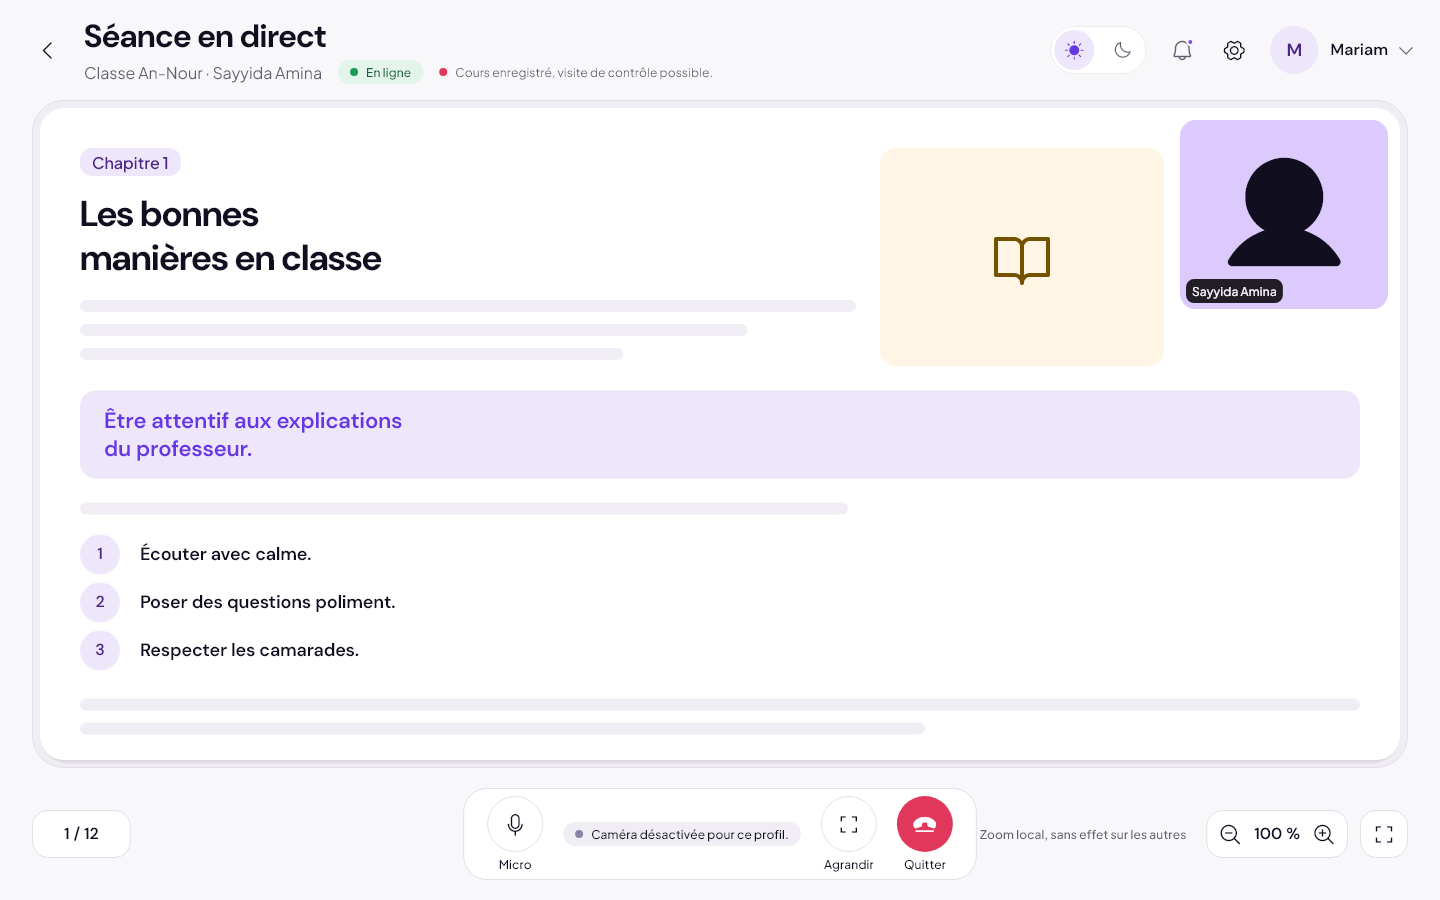
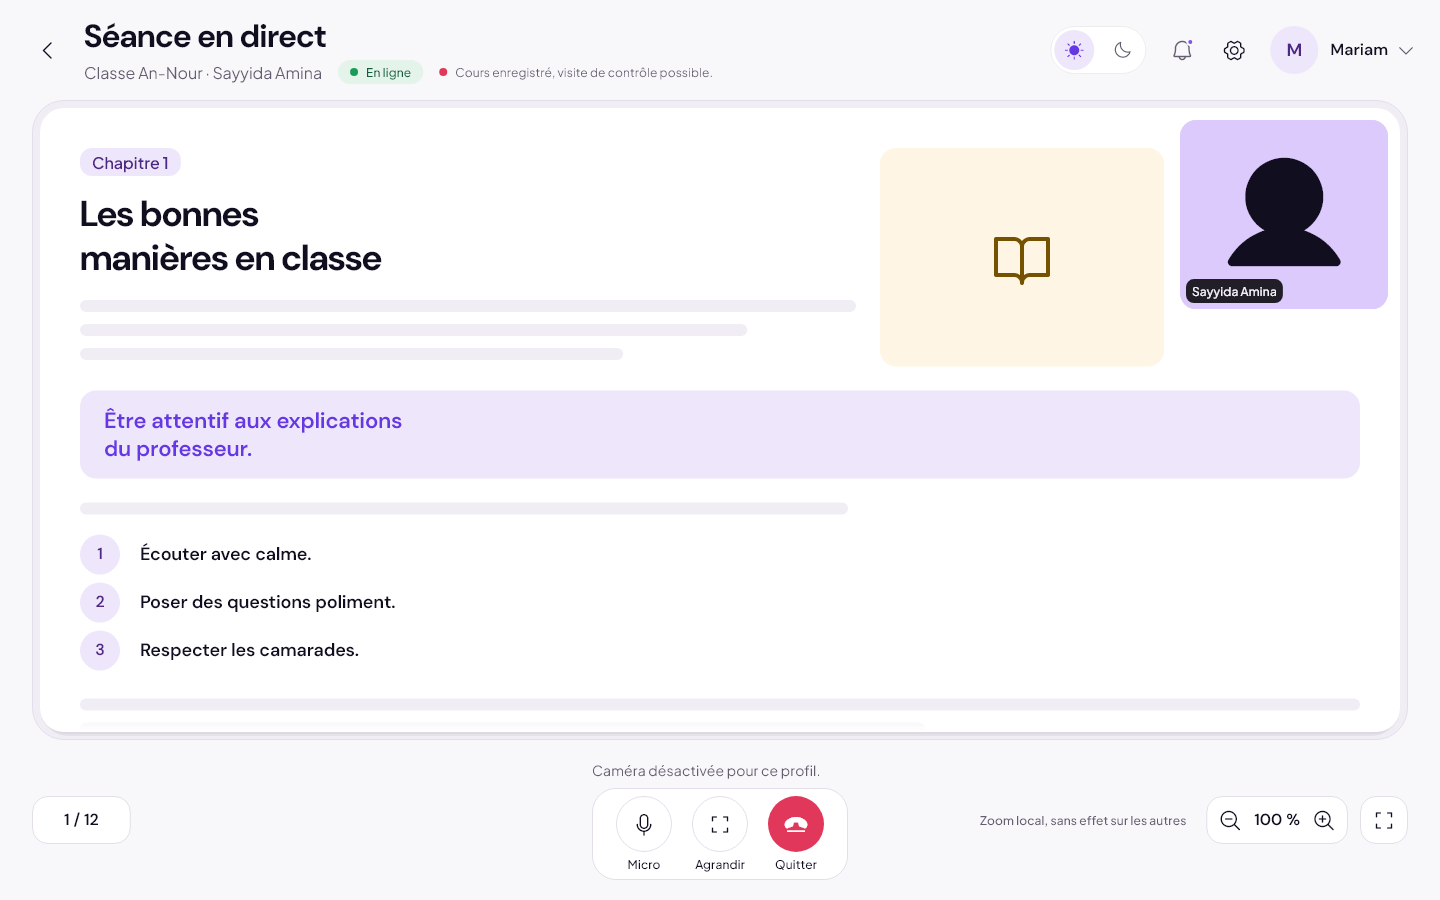
CL-7 T-S6 : recette des écrans de secours, rapport directeur, captures TS5 mises à jour et TS6

diff --git a/10_classe/UX_REVIEW_CL-7.md b/10_classe/UX_REVIEW_CL-7.md
@@ -10,14 +10,14 @@ Référentiels exclus : GOV.UK Design System (décision du directeur, §4.1). La
 |---|---|---|
 | W1 | WCAG 2.2, critère 4.1.3 « Status Messages » (w3.org/WAI/WCAG22/Understanding/status-messages) : « Status messages can be programmatically determined … without receiving focus. » | lue en ligne le 26/09/2026 |
 | W2 | WCAG 2.2 : 1.4.1 Utilisation de la couleur, 2.4.3 Parcours du focus, 2.4.11 Focus non masqué (minimum), 2.5.8 Taille de cible (minimum), 3.2.2 Changement au moment de la saisie, 3.3.1 Identification des erreurs | texte normatif connu ; non rechargé dans cette session |
-| M3 | Material Design 3 : bannières (message persistant tant que la condition dure), snackbars (bref, non critique), bottom sheets, dialogues | page m3.material.io injoignable par l'outil le 26/09/2026 (« socket hang up ») ; règles connues, à relire en recette T-S6 |
-| AH | Apple HIG, Privacy (demander l'accès au moment où il sert ; en cas de refus, expliquer et orienter vers Réglages sans insister) | page non lisible par l'outil le 26/09/2026 ; règle connue, à relire en recette T-S6 |
+| M3 | Material Design 3 : bannières (message persistant tant que la condition dure), snackbars (bref, non critique), bottom sheets, dialogues | relue en recette T-S6 le 26/09/2026 : page M3 Snackbar lue (bref, disparaît seul, bas de l'écran) ; la page M3 « banners » répond 404 : M3 n'a plus de composant bannière, la règle « persiste tant que la condition dure, non modale, en haut sous la barre » vient de Material 2 (m2.material.io/components/banners, trouvée par recherche). Conclusions U1, U2, U4 inchangées. |
+| AH | Apple HIG, Privacy (demander l'accès au moment où il sert ; en cas de refus, expliquer et orienter vers Réglages sans insister) | relue en recette T-S6 le 26/09/2026 par recherche web (HIG Privacy / « Accessing private data » ; la page elle-même ne se charge pas dans l'outil) : demander au moment où la fonction sert, texte précis et poli sans pression, après un refus on peut orienter vers Réglages. Conclusion U5 inchangée. |
 | FL | Flutter, « Adaptive and responsive design » et « Accessibility » (`Semantics.liveRegion`, focus, `SemanticsService.announce`) | règles connues ; non rechargé |
 | EN | EN 301 549 V3.2.1 (2021-03), chapitre 9 = WCAG 2.1 AA ; aucune « version 2026 » supposée | édition connue ; portée : web et application |
 | NI | Nielsen, heuristiques 1 (visibilité de l'état), 3 (contrôle et liberté), 5 (prévention des erreurs), 9 (diagnostiquer et récupérer) | référence stable |
 | LO | Fitts (cible 48 / 72 dp), Hick (deux choix au plus en secours), proximité Gestalt (§4 bis.1 : objet → CTA 16 dp) | référence stable |
 
-Réserve honnête : seules W1 a été relue en ligne pendant cette session (délai < 35 min, deux sites injoignables par l'outil). La recette T-S6 relit M3 et AH et met à jour la colonne « Consultation » ; si une règle diffère, la ligne concernée passe à « ajustée ».
+Réserve honnête (mise à jour T-S6) : W1 relue en ligne au cadrage ; M3 et AH relues en recette T-S6 (colonne « Consultation ») ; W2, FL, EN non rechargées (texte normatif stable). Aucune conclusion ne change.
 
 ## 1. Propositions contrôlées
 
@@ -28,10 +28,10 @@ Réserve honnête : seules W1 a été relue en ligne pendant cette session (dél
 | U3 | Reconnexion impossible, hors ligne confirmé (P05.8) | `EtatSysteme(portee: bloc)` à la place du bandeau, entre en-tête et support ; action `Réessayer` au bord trailing, `Quitter la séance` au leading ; la salle reste montée. | NI-3, NI-9 ; Hick : deux choix ; §4 bis.2 : poursuite trailing, sortie leading, 16 dp sous l'objet ; W2 3.3.1. | ajustée | Pas d'écran plein ni de dialogue : la spec dit « Page de salle conservée ». `Quitter la séance` repasse par la confirmation existante (`Quitter la séance ?` / cahier pour l'enseignant) : aucune sortie sans confirmation (NI-5). |
 | U4 | Réseau faible (P06) | Même bandeau que U1, ton avertissement, pastille « En ligne » inchangée ; commandes actives. | W2 1.4.1 : texte + icône, jamais la couleur seule ; spec P06.5 : aucun faux « hors ligne ». | conforme | La pastille d'état n'est pas remplacée par « Hors ligne » tant que la room est connectée. |
 | U5 | Micro bloqué (P09) | Feuille `AppBottomSheet` (feuille du bas < 600, dialogue centré au-delà) ouverte **au geste Micro** ; texte + `Continuer sans micro` (secondaire, leading) + `Ouvrir les réglages` (principal, trailing) **seulement si la plateforme le permet**. Fermeture → focus rendu au bouton Micro. | AH : demande contextuelle, orientation vers Réglages ; W2 2.4.3 (retour du focus) ; M3 : feuille modale pour une décision courte ; §4 bis.2 : un seul CTA dominant. | ajustée | Sans paquet de permission (pubspec interdit, `permission_handler` non retenu C05 §6), `onOuvrirReglages` reste `null` → bouton non rendu ; `Continuer sans micro` devient la seule action. Le bouton Micro reste « coupé » : aucun état « micro actif » simulé (P09.6). |
-| U6 | Caméra interdite (P10) | Élève standard : pas de bouton Caméra (déjà fait) ; `StatusPill` ton neutre, non interactive, « Caméra désactivée pour ce profil. » posée dans la barre basse (à la place du bouton, 768/1440) ou au-dessus du dock, alignée start, 8 dp (390). Guidée : rien. | Spec P10.3 « statut non interactif … pas dans le contenu principal » ; W2 : pas de contrôle factice ; Nielsen 1. | ajustée (Q-S1) | La spec parle de « détails média », que ni la matrice ni les maquettes du directeur ne montrent : la barre basse est retenue comme zone média. Choix soumis au directeur (Q-S1 dans `07_SECOURS.md`). |
+| U6 | Caméra interdite (P10) | Élève standard : pas de bouton Caméra (déjà fait) ; `StatusPill` ton neutre, non interactive, « Caméra désactivée pour ce profil. » posée dans la barre basse (à la place du bouton, 768/1440) ou au-dessus du dock, alignée start, 8 dp (390). Guidée : rien. | Spec P10.3 « statut non interactif … pas dans le contenu principal » ; W2 : pas de contrôle factice ; Nielsen 1. | ajustée (Q-S1), corrigée T-S6 | **T-S6** : la `StatusPill` (prévue pour 2 mots) passait sur deux lignes à 768 ; le statut devient un **texte d'état discret** (encre atténuée, comme « La séance se poursuit. ») au-dessus du dock, aligné start, 8 dp, **à toutes les tailles** ; tient sur une ligne à 390/768/1440, reflue à 320 et à 200 %. La spec parle de « détails média », que ni la matrice ni les maquettes du directeur ne montrent : la barre basse est retenue comme zone média. Choix soumis au directeur (Q-S1 dans `07_SECOURS.md`). |
 | U7 | Séance prolongée (P11) | Texte simple dans la ligne d'état (déjà fait pour ES et EN), jamais bandeau vert ; guidée : rien (matrice). Minuteur jamais négatif. | Matrice + DV D4 ; NI-1 ; minimalisme. | conforme | Aucun changement visuel ; ajout de situations démo et d'un test « minutes ≥ 0 ». |
 | U8 | Salle terminée (P12) | `ResultatSeance` (élève, guidée) et `FinSeanceEnseignant` existants ; focus initial sur le titre. | NI-1 ; W2 2.4.3 ; §4 bis.2 : résultat, 16 dp, CTA trailing. | conforme (existant) | Aucun changement ; écart d'anatomie éventuel consigné pour HU-1, pas corrigé ici (§4 bis.8). |
-| U9 | Accès retiré (P12) | Nouvelle issue de `ResultatSeance` (`accesRetire`) : titre « Votre accès à cette séance a pris fin. », CTA `Retour à la Classe` ; guidée : écran de fin guidé existant. Aucune tentative de reconnexion. | NI-9 ; spec P12.5 ; W2 3.3.1. | conforme | Pas de nouveau composant : une valeur d'énumération de plus et ses textes. |
+| U9 | Accès retiré (P12) | Nouvelle issue de `ResultatSeance` (`accesRetire`) : titre « Votre accès à cette séance a pris fin. », CTA `Retour à la Classe` ; guidée : écran de fin guidé existant. Aucune tentative de reconnexion. | NI-9 ; spec P12.5 ; W2 3.3.1, 2.4.3. | conforme (T-S6) | Pas de nouveau composant : une valeur d'énumération de plus et ses textes. T-S6 : focus clavier explicite posé sur `Retour à la Classe` à l'ouverture (extension additive `ActionPrincipale.autofocus` / `EcranResultat.focusAction`) ; le titre reste l'en-tête lu en premier. |
 | U10 | Mobile 390 / tablette 768 / desktop 1440 | Bandeaux pleine largeur de la colonne salle, gouttière 16 / 16 / 32 (valeurs du gabarit existant) ; bloc U3 borné par `EtatSysteme` ; feuille U5 = feuille du bas < 600, dialogue ≥ 600. | Contrat D : pas d'étirement mécanique, largeur bornée par le composant ; FL adaptive. | conforme | Aucune largeur ad hoc. Zoom 200 % : bandeau sur plusieurs lignes, jamais tronqué (W2 1.4.4 / 1.4.10). |
 | U11 | Mouvement | Apparition/disparition des bandeaux avec `AppMouvement.apparition` (180 ms) et courbes existantes ; réduction de mouvement = 0. | Contrat E. | conforme | Aucune durée locale. |
 
@@ -42,3 +42,22 @@ Aucune dérogation aux contrats A à E. Une tension documentée : la règle de `
 ## 3. Limites (§4.3)
 
 Rien ici ne change une permission, un état serveur ni la présence : détection réelle de la qualité, échec durable, révocation, permission OS et publication vidéo restent côté serveur et SDK (BR-1).
+
+## 4. Recette T-S6 (26/09/2026)
+
+| # | Coché | Preuve |
+|---|---|---|
+| U1 | oui | T-S2 : bandeau `liveRegion`, commandes désactivées ; captures `TS2/cl7_0{4,5,6}_reconnexion_*` |
+| U2 | oui | T-S2 : `LocalFeedback` ; démo : Réessayer (échec) → « Connexion rétablie. » (`demo_salle_page_test`) |
+| U3 | oui | T-S3 : bloc `EtatSysteme`, Réessayer trailing, Quitter leading avec confirmation |
+| U4 | oui | T-S2 : pastille « En ligne » conservée en réseau faible |
+| U5 | oui | T-S4 : feuille / dialogue, focus rendu au bouton Micro, Ouvrir les réglages non rendu (BR-1) |
+| U6 | oui (corrigé) | texte d'état discret une ligne ; `TS5/cl7_04_camera_interdite_*` recapturées ; tests 390/768/1440 à 200 %, 320 à 100 % et 200 % |
+| U7 | oui | T-S5 : « La séance se poursuit. », jamais négatif |
+| U8 | oui | existant |
+| U9 | oui (corrigé) | focus clavier sur l'action à l'ouverture, Entrée sort (tests aux 3 tailles) |
+| U10 | oui | `/demo/salle` : liste sans débordement à 320 (100 %) et 390/768/1440 (200 %) ; libellés des liens repliables |
+| U11 | oui | durées `AppMouvement` seulement (`verifier_jetons` : aucun écart dans les fichiers du lot) |
+
+Clavier : Tab atteint les liens de `/demo/salle`, le lien focalisé reste dans la vue (focus jamais masqué, W2 2.4.11), Entrée l'ouvre.
+Écarts consignés pour HU-1 (hors lot) : `verifier_jetons` signale deux écarts antérieurs hors CL-7 (`repere_demonstration.dart:37` graisse, `scanner_page.dart:467` page sans coquille).

diff --git a/05_recette/CL/RAPPORT.md b/05_recette/CL/RAPPORT.md
@@ -48,7 +48,7 @@ Vous n'aviez pas encore répondu à 8 petites questions de détail. Pour ne pas 
 ## Ce qui n'est pas encore fait
 
 - **CL-4 (les écrans d'entrée)** : « Espace Classe » élève, « Espace Classe » enseignant, préparation technique avant d'entrer. Ces 3 écrans n'ont pas de maquette du directeur : quelqu'un doit d'abord les dessiner (ou vous les valider directement en code) avant de les coder.
-- **CL-7 (les écrans de secours)** : reconnexion, réseau faible, micro refusé, caméra interdite, séance prolongée, séance terminée ou accès retiré. Là aussi, pas encore de maquette.
+- ~~CL-7 (les écrans de secours)~~ : **fait le 26/09** avec votre feu vert sans maquette, voir la section « Écrans de secours (CL-7) » plus bas.
 - Ces deux points étaient prévus pour le poste A ; comme il est éteint depuis le 25/09, ils attendent soit une reprise par le poste B, soit votre feu vert pour les dessiner sans maquette (méthode habituelle : gabarits déjà utilisés ailleurs).
 - **BR-1 (branchement du serveur, tout en une fois, plus tard)** : le vrai support de cours partagé, les outils d'enseignement qui agissent réellement, la vraie bibliothèque de supports, les permissions micro/caméra du téléphone, la fusion technique des deux salles existantes en une seule en coulisses. Rien de tout cela n'est visible pour l'instant : les écrans sont prêts à les recevoir dès que vous donnez le feu vert pour BR-1.
 - Une question mineure laissée à votre avis : quand un enfant en interface guidée quitte la séance avant la fin, il voit aujourd'hui « La séance est terminée. » alors qu'elle continue pour les autres. Une phrase plus juste serait « Tu as quitté la séance. ». Rien n'a été changé sans votre accord.
@@ -56,3 +56,35 @@ Vous n'aviez pas encore répondu à 8 petites questions de détail. Pour ne pas 
 ## Tableau de suivi (nettoyage)
 
 Le tableau partagé (page « Chantier Tuteur V1 ») a été relu et remis à jour ce soir pour qu'il reflète l'état réel du lot Classe et visio (les lignes CL-3 et CL-6, marquées comme en cours, sont en réalité terminées) et pour que l'autre poste ne s'y perde plus : voir le récapitulatif court en tête des lignes `CL-*`.
+
+## Écrans de secours (CL-7)
+
+Fait le 26/09/2026, sans maquette (votre feu vert), en réutilisant les éléments déjà présents dans l'application. Rien n'est branché au serveur : ce sont les écrans, prêts à recevoir les vrais signaux à l'étape BR-1.
+
+**Ce qui est fait**, pour l'élève, l'enfant en interface guidée et l'enseignant :
+
+- **Réseau faible** : une bande d'avertissement en haut (« Réseau faible. L'audio est prioritaire. ») ; la séance continue normalement.
+- **Reconnexion** : la bande dit « Connexion interrompue. Reconnexion en cours… » ; le cours reste affiché ; Micro et Caméra sont mis en pause le temps de la reconnexion.
+- **Connexion rétablie** : un court message « Connexion rétablie. » qui disparaît seul.
+- **Reconnexion impossible / hors ligne** : un encadré avec « Réessayer » et « Quitter la séance » (Quitter demande toujours confirmation).
+- **Micro bloqué** par le téléphone : une petite fenêtre explique que le micro est bloqué, avec « Continuer sans micro ». Le bouton « Ouvrir les réglages » viendra avec le serveur (BR-1).
+- **Caméra interdite** (élève) : pas de bouton Caméra, et une ligne discrète au-dessus des boutons du bas : « Caméra désactivée pour ce profil. » L'enfant en interface guidée ne voit ni bouton ni explication.
+- **Séance prolongée** : « La séance se poursuit. » à la place du minuteur ; aucun bouton « Prolonger ».
+- **Accès retiré** : un écran « Votre accès à cette séance a pris fin. » avec « Retour à la Classe ». Au clavier, ce bouton est déjà sélectionné à l'ouverture.
+
+**Où le voir** : ouvrez `/demo/salle`. Pour chaque rôle (Élève standard, Interface guidée, Enseignant), il y a deux groupes de boutons : « Déroulé de la séance » (l'ordinaire) puis **« Situations de secours »** (9 situations ; 8 pour l'enseignant, car il a toujours la caméra). Un clic ouvre la salle dans cette situation. Dans « Reconnexion impossible », « Réessayer » fait revenir la connexion pour que vous voyiez la suite.
+
+**Captures à regarder** (dossier `10_classe/captures/`) :
+
+- `TS6/cl7_demo_liste_390x844_light.png` : la page de démonstration rangée par rôle.
+- `TS5/cl7_04_camera_interdite_768x1024@1_light.png` : la ligne « Caméra désactivée pour ce profil. » tient maintenant sur une seule ligne (avant, elle se coupait en deux sur tablette).
+- `TS2/` : réseau faible, reconnexion, connexion rétablie (élève `cl7_04`, guidée `cl7_05`, enseignant `cl7_06`).
+- `TS3/`, `TS4/`, `TS5/` : reconnexion impossible, micro bloqué, séance prolongée, accès retiré.
+
+**Vérifié** : téléphone, tablette, ordinateur, clair et sombre ; écran très étroit (320) ; texte agrandi à 200 % ; navigation au clavier (on voit toujours où l'on est). 619 tests réussis, aucun échec. Les recommandations de Google (Material) et d'Apple ont été relues : rien à changer.
+
+**À trancher par vous** (une option par défaut est appliquée, rien n'est bloqué) :
+
+1. **Q-S1** : « Caméra désactivée pour ce profil. » reste **visible** au-dessus des boutons (choix actuel), ou bien seulement **lu à voix haute** par le lecteur d'écran, sans texte visible ?
+2. **Q-S2** : ces textes n'étaient pas dans la spec, ils ont été proposés : « Connexion rétablie. » pour l'enfant ; « Continuer sans micro » pour l'enfant ; « Impossible de rétablir la connexion. » pour l'enseignant ; et, pour le lecteur d'écran, « Indisponible pendant la reconnexion. » sur un bouton en pause. Les gardez-vous ?
+3. **Boutons de l'enfant pendant la reconnexion** : en interface guidée, les grosses pastilles de couleur « Parler » et « Caméra » deviennent **grises (sans couleur)** tant que la reconnexion dure, pour montrer qu'elles sont en pause. Cela vous convient-il, ou préférez-vous qu'elles gardent leur couleur (en restant inactives) ?

diff --git a/05_recette/CL/T-S6.md b/05_recette/CL/T-S6.md
@@ -1,0 +1,30 @@
+# T-S6 : page démo et recette des écrans de secours (lot CL-7)
+
+Date : 26/09/2026. Branche `ui/classe-v1`, commit `56541ce`. Plan : `10_classe/07_SECOURS.md` §3 T-S6. Règles gelées appliquées au lot (nouveau) ; rien renvoyé à HU-1 pour CL-7.
+
+## Corrections des écarts de T-S5
+
+- **(a) Caméra désactivée pour ce profil.** La `StatusPill` (prévue pour 2 mots) passait sur deux lignes à 768. Présentation retenue : le **texte d'état discret** déjà employé pour « La séance se poursuit. » (encre atténuée, `bodyMedium`), posé au-dessus du dock, aligné start, écart 8, **à toutes les tailles** (plus rien dans la barre). Aucun fork : `StatutCameraInterdite` compose un `Text` du thème ; `LocalFeedback` écarté (retour bref qui disparaît, `liveRegion` : inadapté à un statut permanent). Une ligne à 390 / 768 / 1440 (captures relues), reflue à 320 et à 200 %.
+- **(b) Accès retiré** : focus clavier explicite posé sur l'action principale « Retour à la Classe » à l'ouverture ; le titre reste l'en-tête lu en premier. Extension additive, sans copie : `ActionPrincipale.autofocus` (transmis à `Pressable`), `EcranResultat.focusAction`, activé par `ResultatSeance` pour `IssueSeance.accesRetire`.
+- Captures TS5 mises à jour : `TS5/cl7_04_camera_interdite_*` (6). Les captures d'accès retiré ne changent pas (l'anneau de focus n'apparaît qu'en navigation clavier).
+
+## T-S6 fait
+
+- `/demo/salle` : pour chaque rôle, deux groupes titrés « Déroulé de la séance » (6 états) puis « Situations de secours » (9 ; 8 pour l'enseignant, sans « Caméra interdite », sans objet). Titre de rôle en en-tête sémantique. Clés `salle.seance.demo.groupes.*` (fr ; ar par repli, comme les autres libellés de démo).
+- Démo sans serveur : « Réessayer » (reconnexion impossible) simule le retour de la connexion (« Connexion rétablie. ») ; « Continuer sans micro » laisse le micro coupé. « Ouvrir les réglages » reste non rendu (BR-1).
+- Libellés des liens repliables (`Flexible`) : aucun débordement à 320 ni à 200 %.
+
+## Preuves
+
+- `flutter analyze --fatal-infos` : 0 problème.
+- `dart run tool/verifier_jetons.dart` : 2 écarts **antérieurs et hors lot** (`repere_demonstration.dart:37`, `scanner_page.dart:467`), aucun dans les fichiers touchés.
+- `flutter test test/features/salle_seance/ test/features/demo/ test/core/ test/widgets/` : **619 réussis, 331 sautés (captures sans `CAPTURE_DIR`), 0 échec.**
+- `test/features/demo/demo_salle_page_test.dart` (nouveau, 34 tests + 6 captures) : 9/9/8 situations ; chaque lien de secours tapé ouvre la bonne salle (`role`, `etat` dans l'adresse, salle montée) ; liste sans débordement 320 (100 %), 390/768/1440 (200 %) ; clavier : Tab atteint un lien, il reste visible (focus jamais masqué), Entrée l'ouvre ; Réessayer → « Connexion rétablie. ».
+- `salle_secours_t_s5_test.dart` mis à jour : statut hors du dock, au-dessus, aligné sur le début du dock à 1440 ; zoom 200 % à 390/768/1440 et 320x1400 ; 320x640 à 100 % ; focus clavier sur l'action de l'accès retiré aux 3 tailles, Entrée sort.
+- Captures `10_classe/captures/TS6/` : `cl7_demo_liste_{390x844,768x1024,1440x900}_{light,dark}` (6). Relues : `cl7_demo_liste_390x844_light`, `TS5/cl7_04_camera_interdite_768x1024@1_light`, `_1440x900@1_dark`.
+- Relecture M3 / Apple HIG : faite (WebFetch + WebSearch), colonne « Consultation » de `UX_REVIEW_CL-7.md` mise à jour ; aucune conclusion ne change. Checklist U1 à U11 cochée (§4 du même fichier).
+
+## Reste / à trancher par le directeur
+
+- Q-S1 (statut caméra visible ou seulement lu), Q-S2 (textes PROPOSITION), boutons guidés inactifs sans couleur pendant la reconnexion (T-S2) : voir `RAPPORT.md`.
+- Branchement réel (détection réseau, permissions, révocation) : BR-1.

diff --git a/10_classe/00_REPRISE.md b/10_classe/00_REPRISE.md
@@ -32,7 +32,7 @@ La règle : **aucun écran codé avant que le directeur ait validé les planches
 | **CL-4** | A | Entrée : CLV-01 Espace Classe élève, CLV-02 Espace Classe enseignant, CLV-03 Préparation technique. | CL-3 |
 | **CL-5** | A | Salle élève : CLV-04 standard, CLV-05 Interface guidée, CLV-09 Fin de séance élève. | CL-3 |
 | **CL-6** | B (agents) | Salle enseignant : CLV-06, CLV-07 Élèves (enseignant **uniquement**), CLV-08 Supports, CLV-10 Fin de séance enseignant. | CL-3 |
-| **CL-7** | A | Résilience : reconnexion (P05), réseau faible (P06), micro refusé (P09), caméra interdite (P10), séance prolongée (P11), salle terminée ou accès retiré (P12). | CL-4, CL-5 |
+| **CL-7** (fait 26/09, `56541ce`) | A | Résilience : reconnexion (P05), réseau faible (P06), micro refusé (P09), caméra interdite (P10), séance prolongée (P11), salle terminée ou accès retiré (P12). | CL-4, CL-5 |
 | **CL-R** | cloud ou Sonnet | Revue adversariale de chaque lot (rôle effectif respecté, rien d'interdit affiché, jetons du thème, i18n). | chaque lot |
 | **CL-F** | B | Intégration dans `ui/classe-v1`, analyze + suite complète, recette §9 de la spec, dont une **vraie rencontre** élève-enseignant sur deux appareils (§9.1). | tous |
 

diff --git a/10_classe/03_PLAN_CODE.md b/10_classe/03_PLAN_CODE.md
@@ -111,6 +111,7 @@ Tailles : mobile 390x844 @3 (zone sûre 47/34), web étroit 640x1000 @1 (gabarit
 | **T8** (rendu en séance de `/salle`) | **à faire : c'est la prochaine et la dernière** | - |
 | T9 (`/tc/classe`) | faite | `05_recette/CL/T8.md` |
 | T10 (recette, 10 planches) | faite, retours de relecture corrigés (`262b4b2`) | `05_recette/CL/RAPPORT.md`, captures `captures/T9/` |
+| CL-7 écrans de secours, T-S1 à T-S6 (plan `07_SECOURS.md`) | faites (T-S6 `56541ce`) | `05_recette/CL/T-S1.md` à `T-S6.md`, `RAPPORT.md` section « Écrans de secours (CL-7) », captures `captures/TS2/` à `TS6/` |
 
 Pour les rapports, se fier à la colonne « Fiche §8 » (les noms de fichiers de rapport ont un cran de décalage). Une fiche est « faite » quand son retour de relecture est corrigé et poussé. Captures d'une nouvelle tâche : `10_classe/captures/T<fiche>/`, seulement ses écrans.
 

diff --git a/10_classe/07_SECOURS.md b/10_classe/07_SECOURS.md
@@ -133,7 +133,7 @@ Consignes communes : `03_PLAN_CODE.md` §6 (verrou flutter, interdits, slang fr 
 
 | Tâche | État |
 |---|---|
-| T-S1 à T-S6 | à faire |
+| T-S1 à T-S6 | fait (26/09/2026, T-S6 `56541ce`) |
 
 ### T-S1 - Modèle, textes, démo (≈ 30 min)
 
